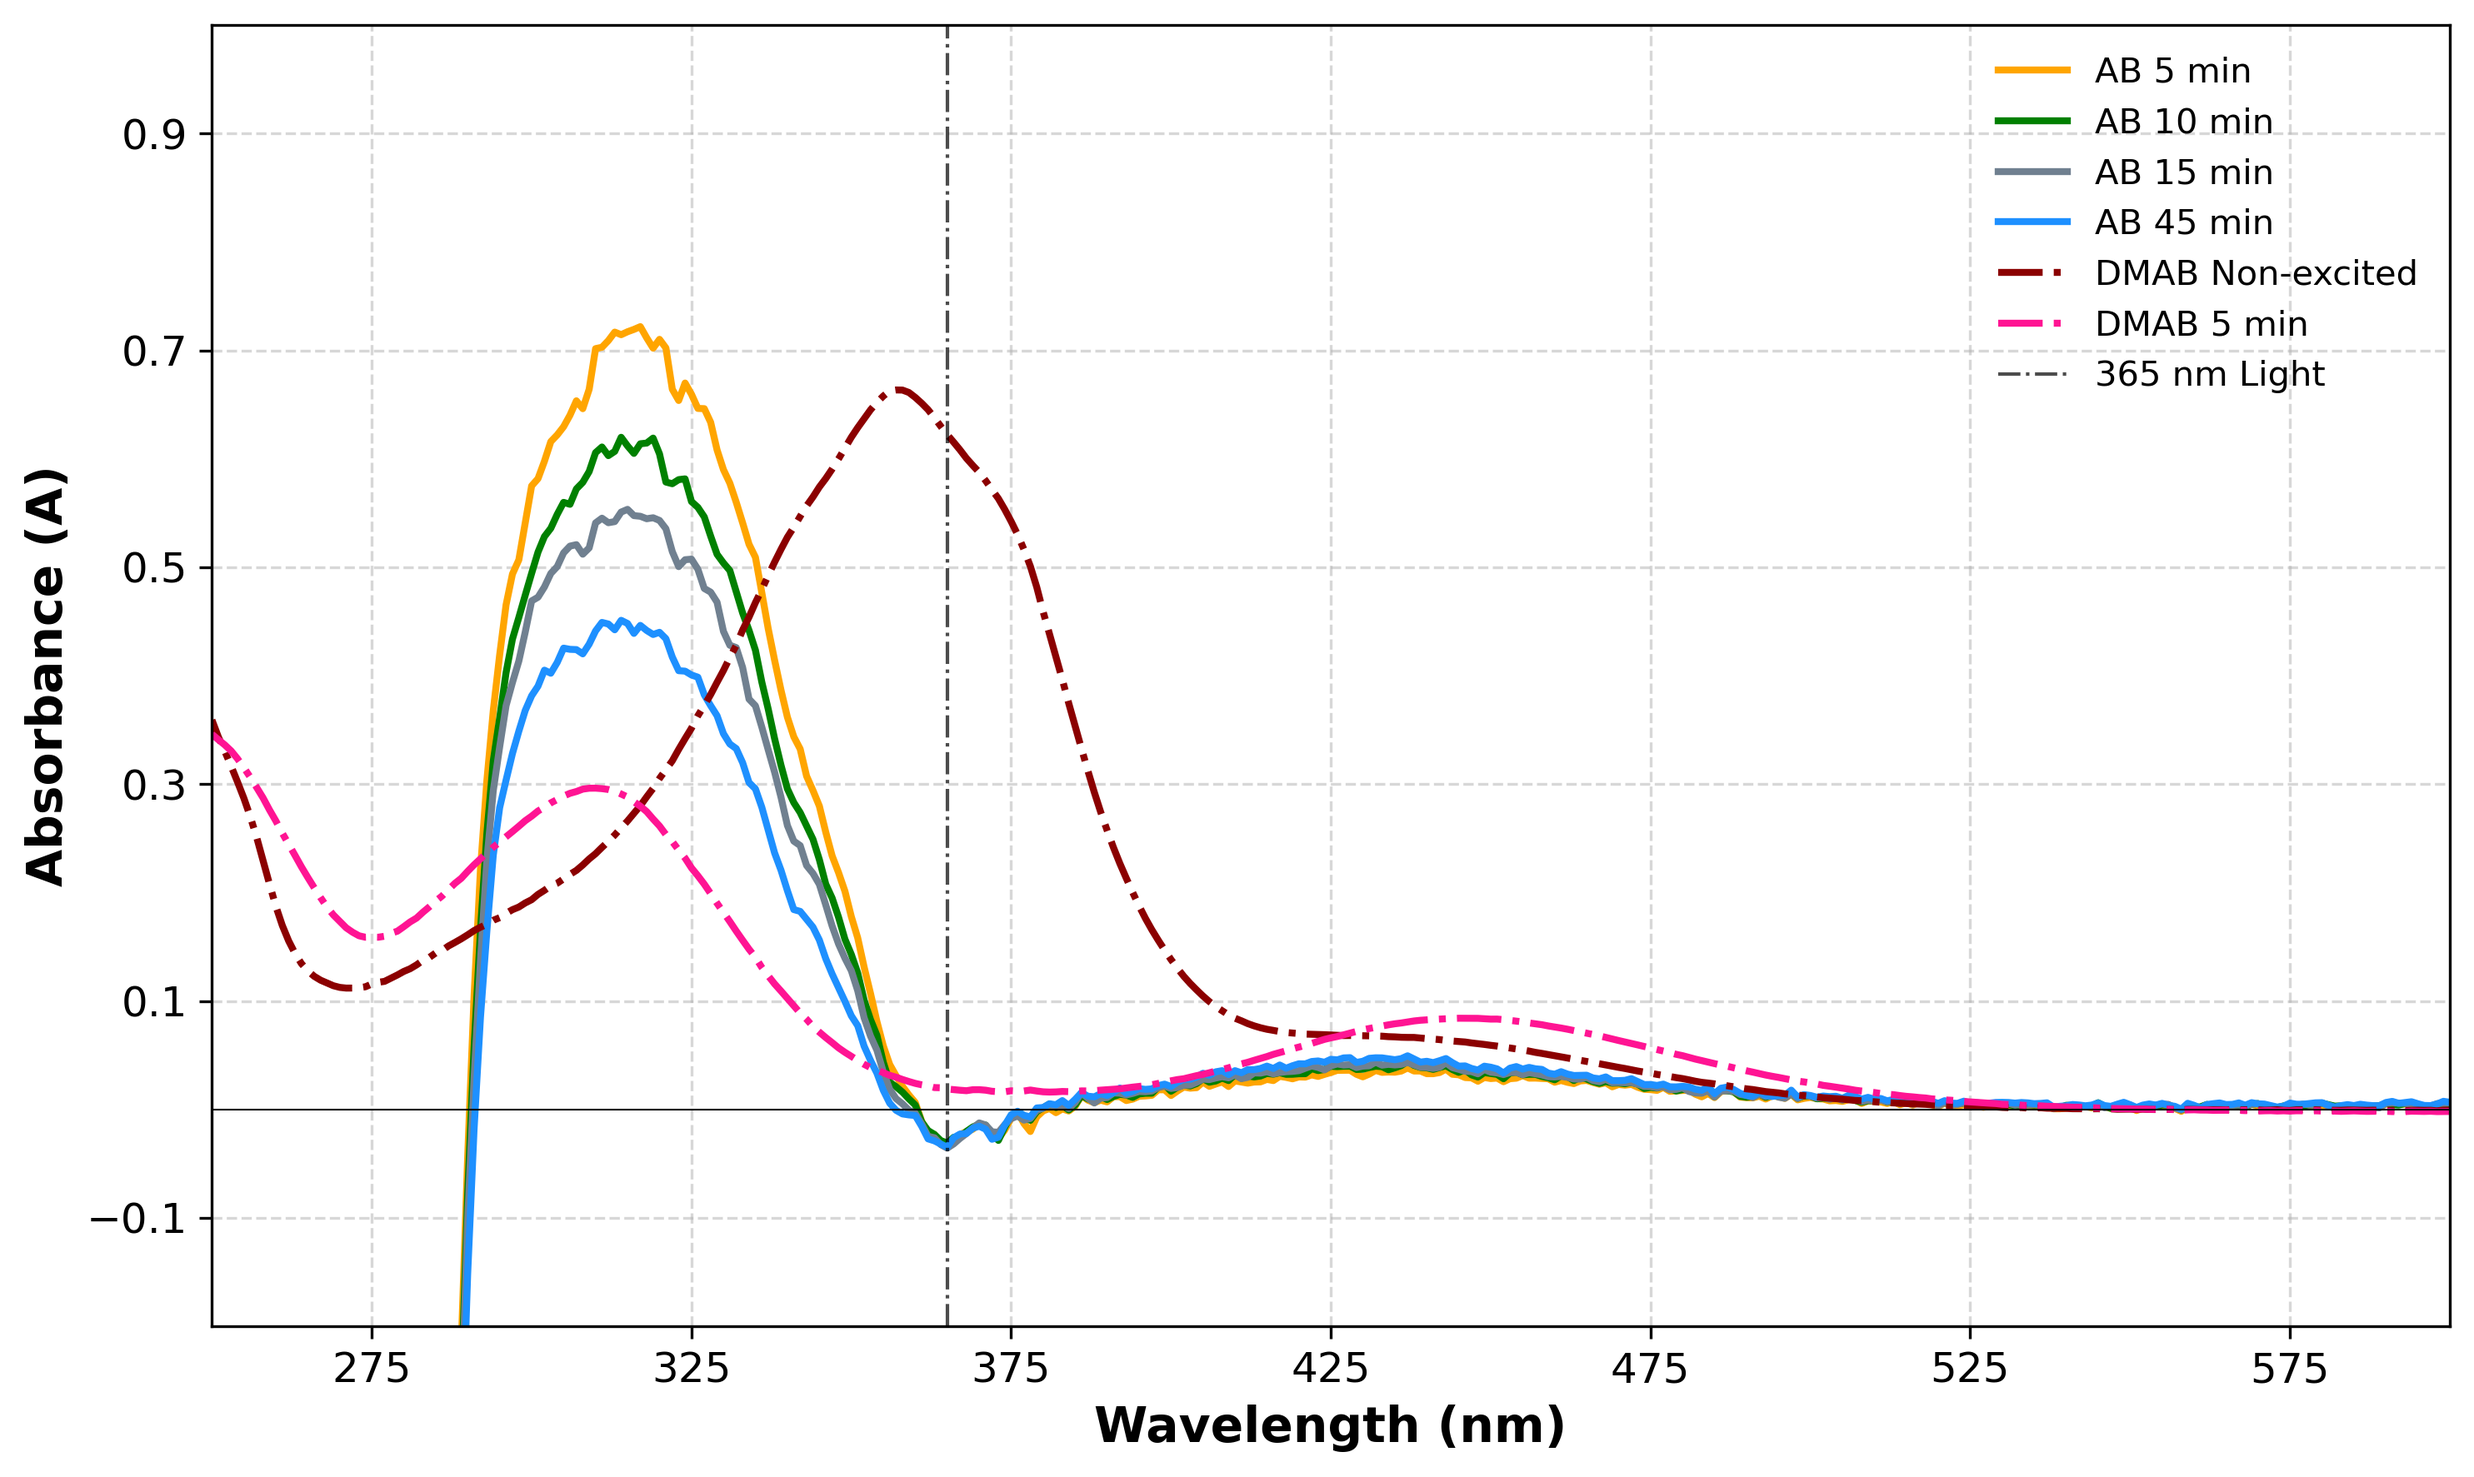
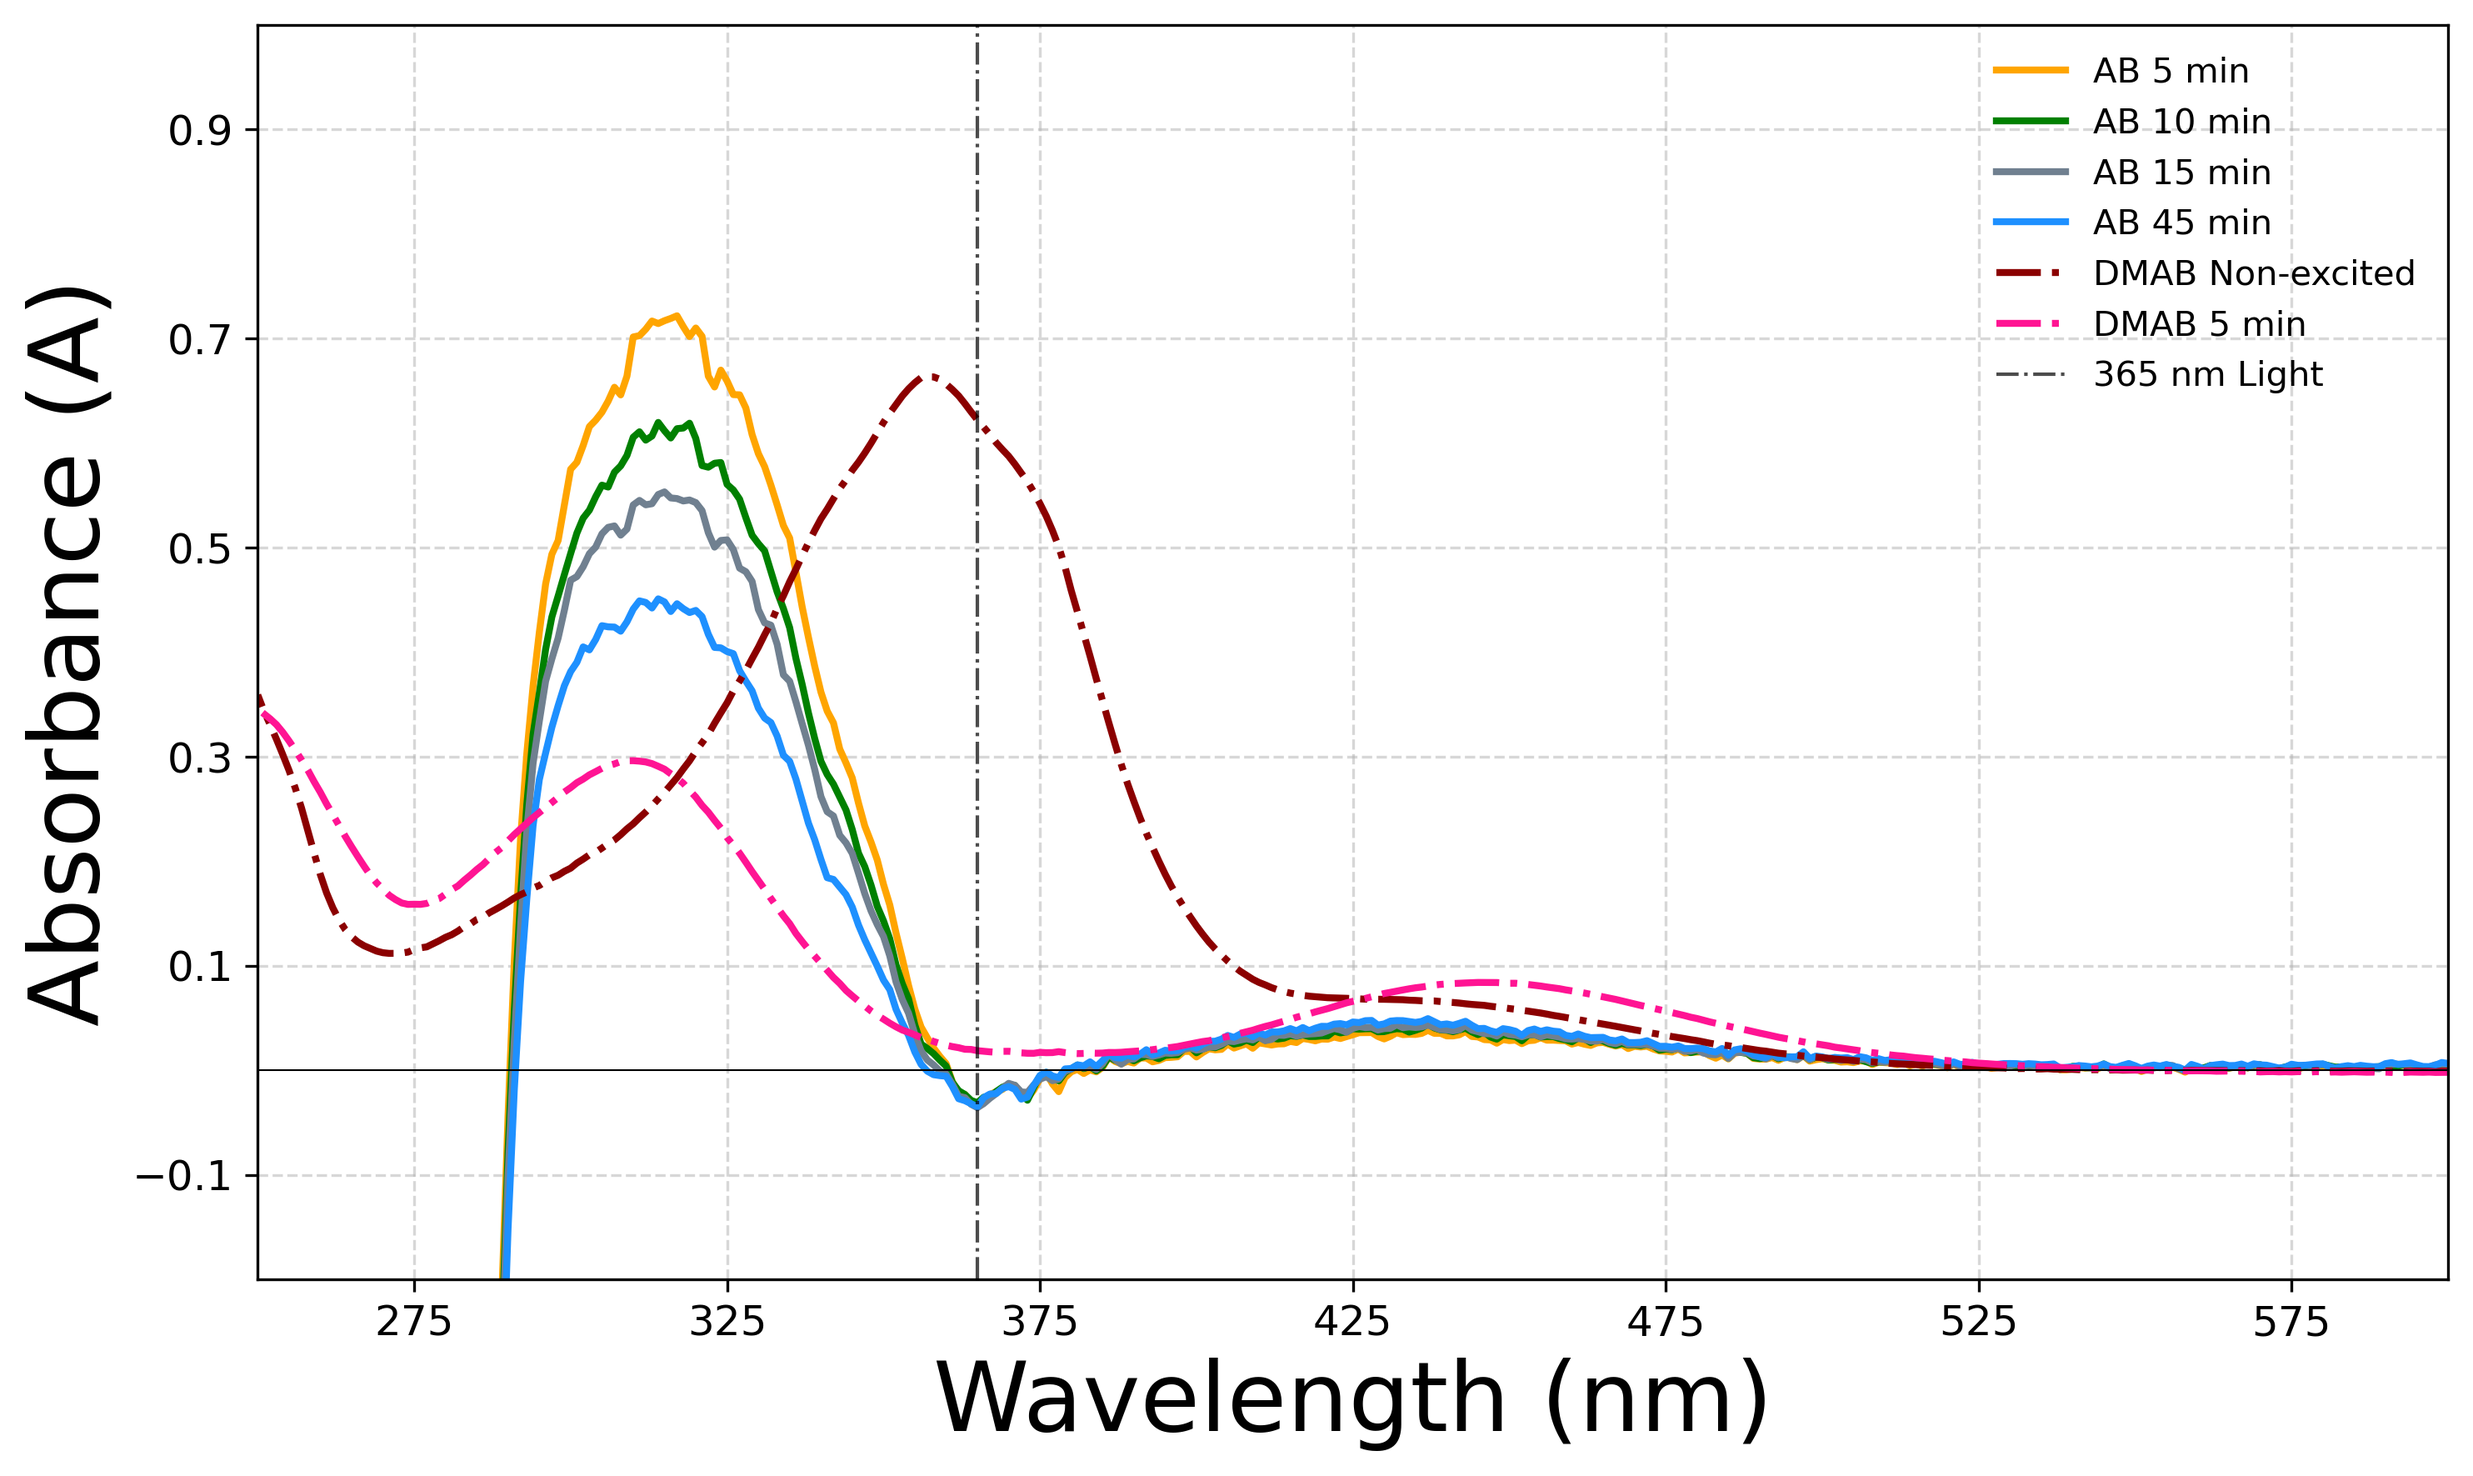
sync

diff --git a/Battery_analysis_code/RFB_plotting_deab_meept.py b/Battery_analysis_code/RFB_plotting_deab_meept.py
@@ -8,16 +8,16 @@ fig = plt.figure()
 ax1 = fig.add_subplot(111)
 
 # plotting the data
-ax1.plot(time[:1000], voltage[:1000])
+ax1.plot(time[:1000], voltage[:1000], linewidth= 3)
 ax1.set_ylim(0.75, 3)
 ax1.set_xlim(335, 1170)
 
 # setting axis labels with larger font size
-ax1.set_ylabel("Voltage [V]", weight='bold', fontsize=18)
-ax1.set_xlabel("Time [s]", weight='bold', fontsize=18)
+ax1.set_ylabel("Voltage (V)", fontsize=28)
+ax1.set_xlabel("Time (s)", fontsize=28)
 
 ax2 = ax1.twiny()
-ax2.set_xlabel("Cycle Number", weight='bold', fontsize=18)
+ax2.set_xlabel("Cycle Number (#)", fontsize=28)
 
 # fixing the cycles to times
 ax2.set_xlim(335, 1170)

diff --git a/report_plotting_final.py b/report_plotting_final.py
@@ -34,8 +34,8 @@ plt.plot(data_deab_1min['nm'], data_deab_1min['A'], label='DMAB 5 min', color='d
 plt.axvline(365, color='black', linestyle='-.', linewidth=1, alpha=0.7, label='365 nm Light')
 plt.axhline(0, color='black', linewidth=0.5)
 # Formatting
-plt.xlabel('Wavelength (nm)', fontsize=14, fontweight='bold')
-plt.ylabel('Absorbance (A)', fontsize=14, fontweight='bold')
+plt.xlabel('Wavelength (nm)', fontsize=28)
+plt.ylabel('Absorbance (A)', fontsize=28)
 plt.xticks(np.arange(275, 601, 50), fontsize=12)
 plt.yticks(np.arange(-0.1, 1.1, 0.2), fontsize=12)
 plt.ylim(-0.2, 1)
